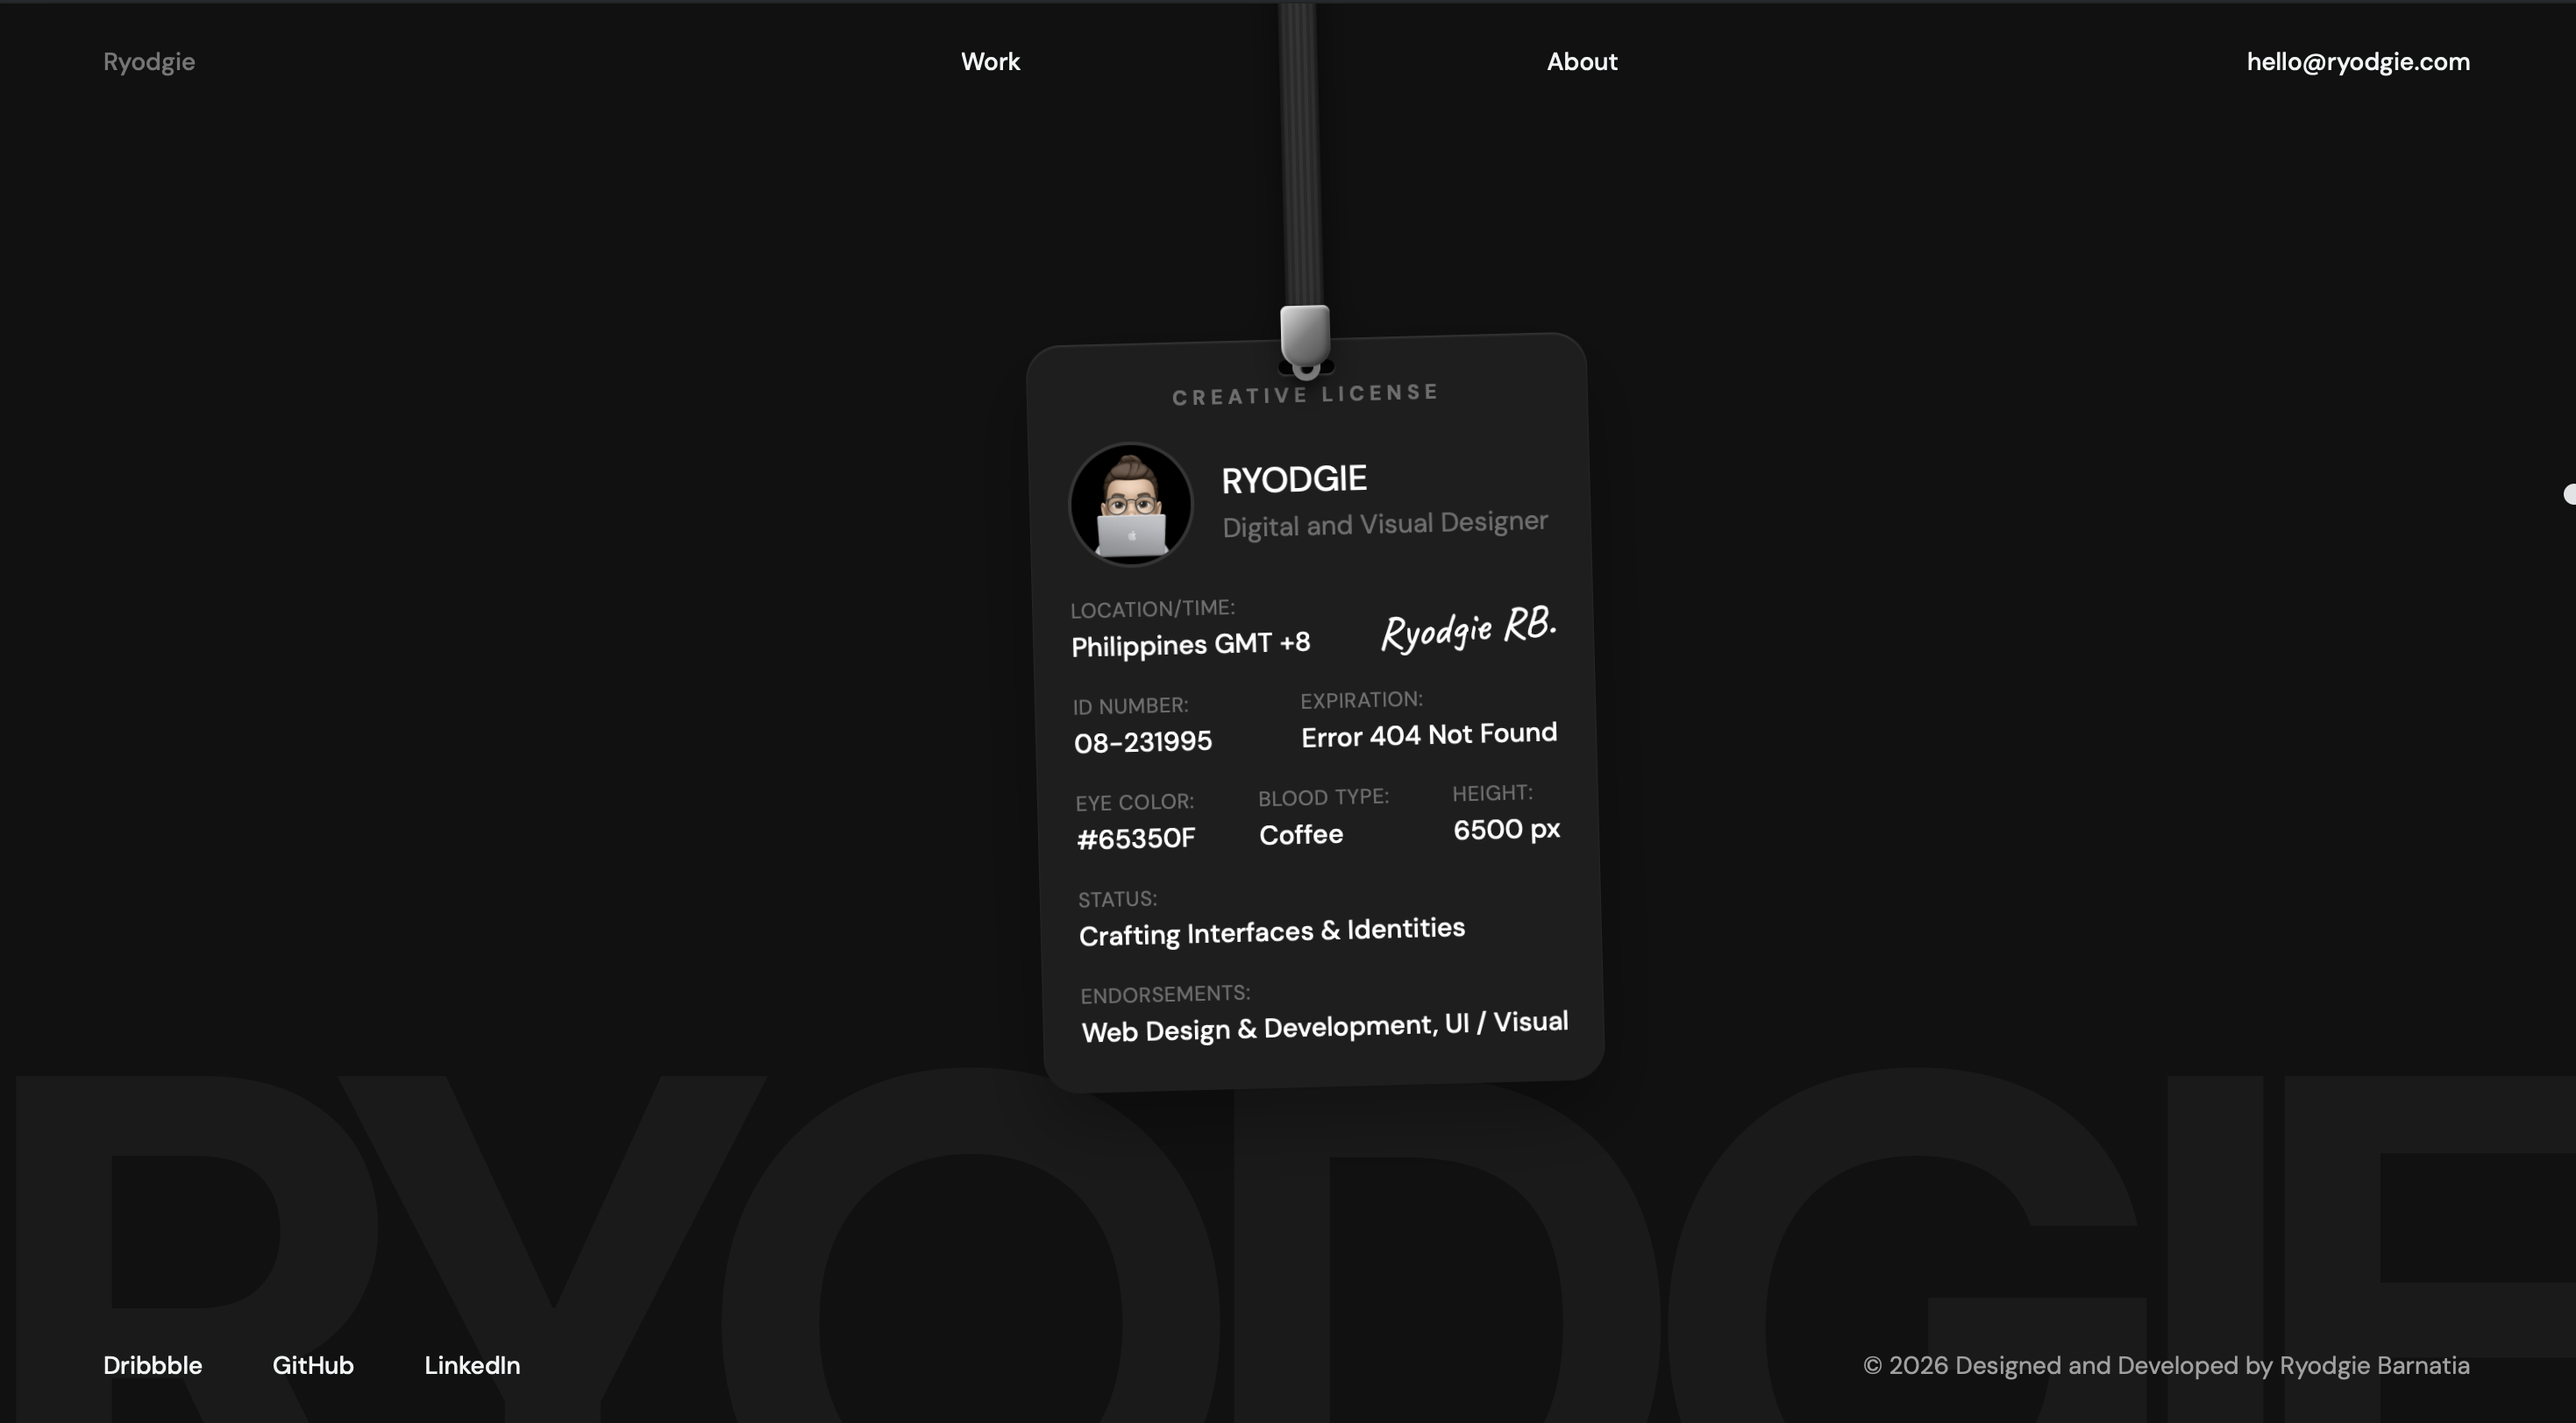
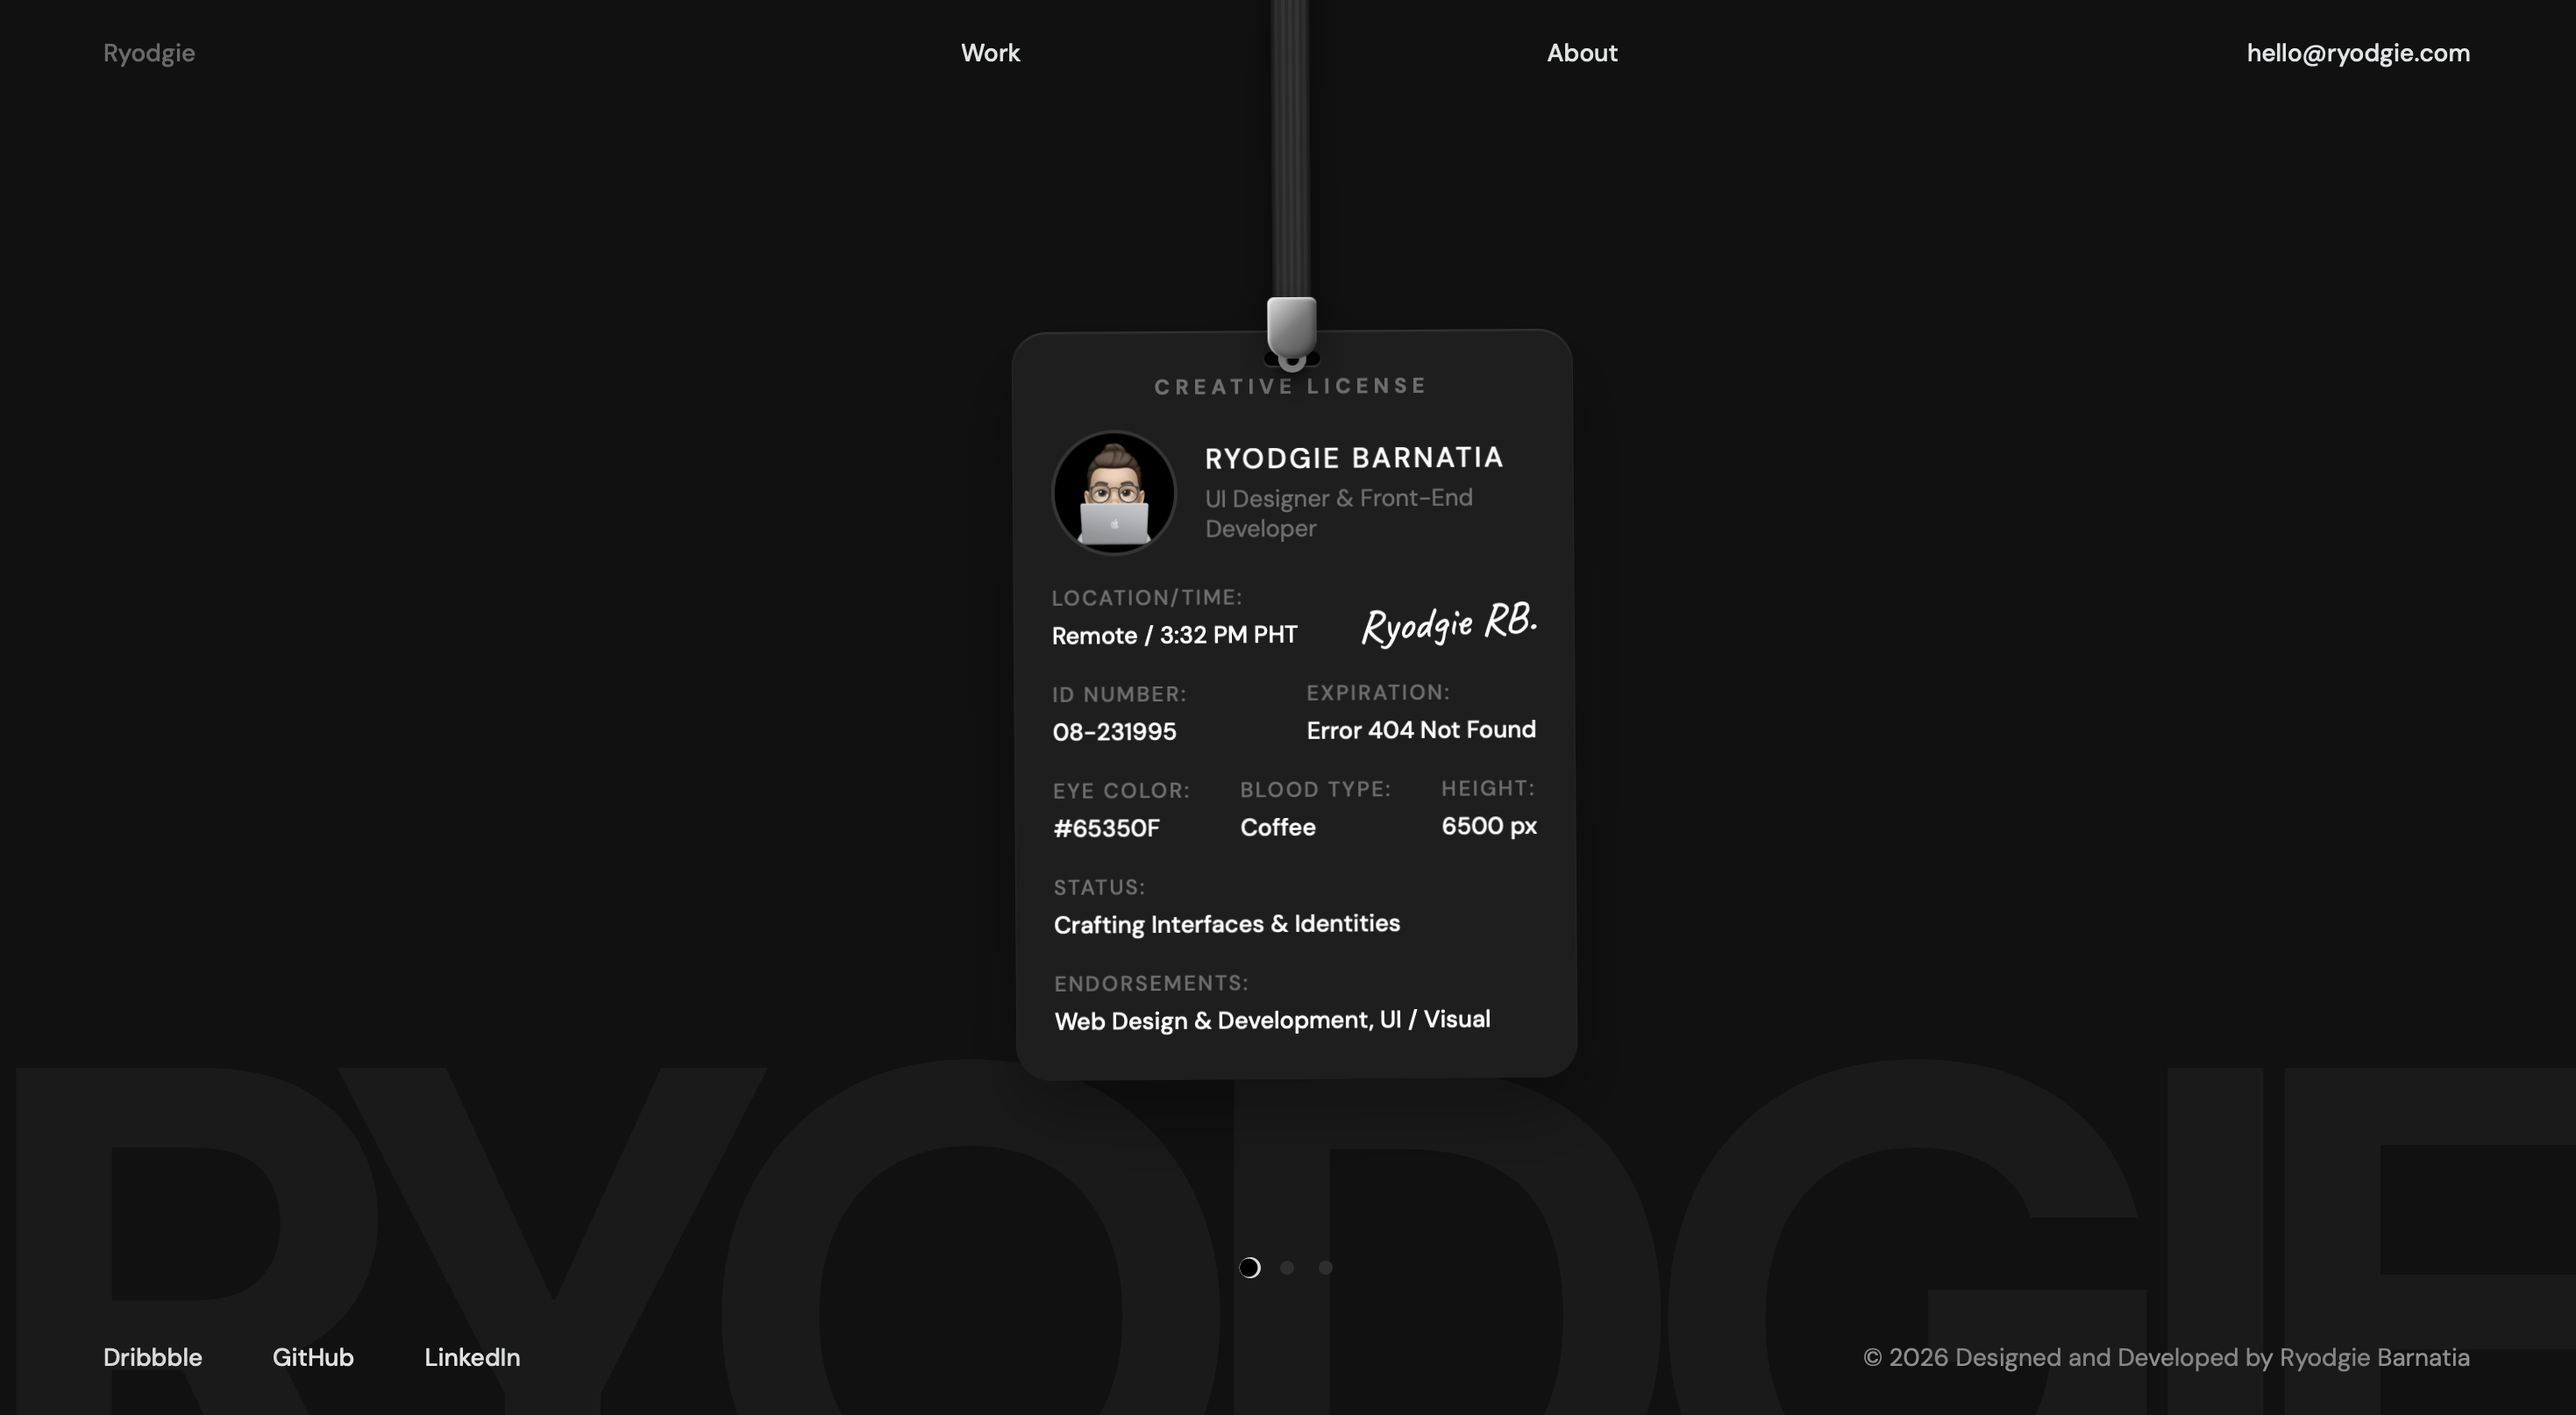
docs: update live site, preview, features

diff --git a/README.md b/README.md
@@ -1,11 +1,10 @@
 # Portfolio V1 — Ryodgie Barnatia
 
-**Live:** [ryodgie-portfolio-v1.vercel.app](https://ryodgie-portfolio-v1.vercel.app)
+**Live:** [ryodgie.com](https://ryodgie.com)
 
 Personal portfolio website — Visual & Web Designer and Front-end Developer.
 
 ![Dark Mode](public/dark-preview.png)
-![Hero Preview](public/portfolio-hero.png)
 
 ---
 
@@ -28,6 +27,7 @@ Personal portfolio website — Visual & Web Designer and Front-end Developer.
     │   ├── Cursor/
     │   ├── DetailItem/
     │   ├── DotsNav/
+    │   ├── ErrorBoundary/
     │   ├── Footer/
     │   ├── ImageWithSkeleton/
     │   ├── LicenseCard/
@@ -42,6 +42,7 @@ Personal portfolio website — Visual & Web Designer and Front-end Developer.
     │   └── About/
     ├── hooks/              # Custom React hooks
     │   ├── useBodyScrollLock
+    │   ├── useClock/
     │   ├── useFocusTrap
     │   ├── useIsMobile
     │   ├── useLenis
@@ -77,6 +78,7 @@ Personal portfolio website — Visual & Web Designer and Front-end Developer.
 
 - ID card hero with lanyard drop and swing animation
 - Dot navigation with keyboard arrow keys and swipe gestures for page switching
+- Dynamic clock on ID card
 - Work overlay with dynamic card spread and hover lift
 - Mobile card stack with drag to swipe
 - Custom cursor that expands to VIEW on project card hover
@@ -87,11 +89,6 @@ Personal portfolio website — Visual & Web Designer and Front-end Developer.
 - Scroll reveal animations on About page
 - Focus trap on Work overlay
 - Keyboard navigation support on project cards
-- Per-page document titles
-- Open Graph meta tags
-- robots.txt and sitemap.xml
-- CSP header and security headers via vercel.json
-- Brotli + gzip compression on build
 - Fully responsive — mobile, tablet, desktop
 
 ---
